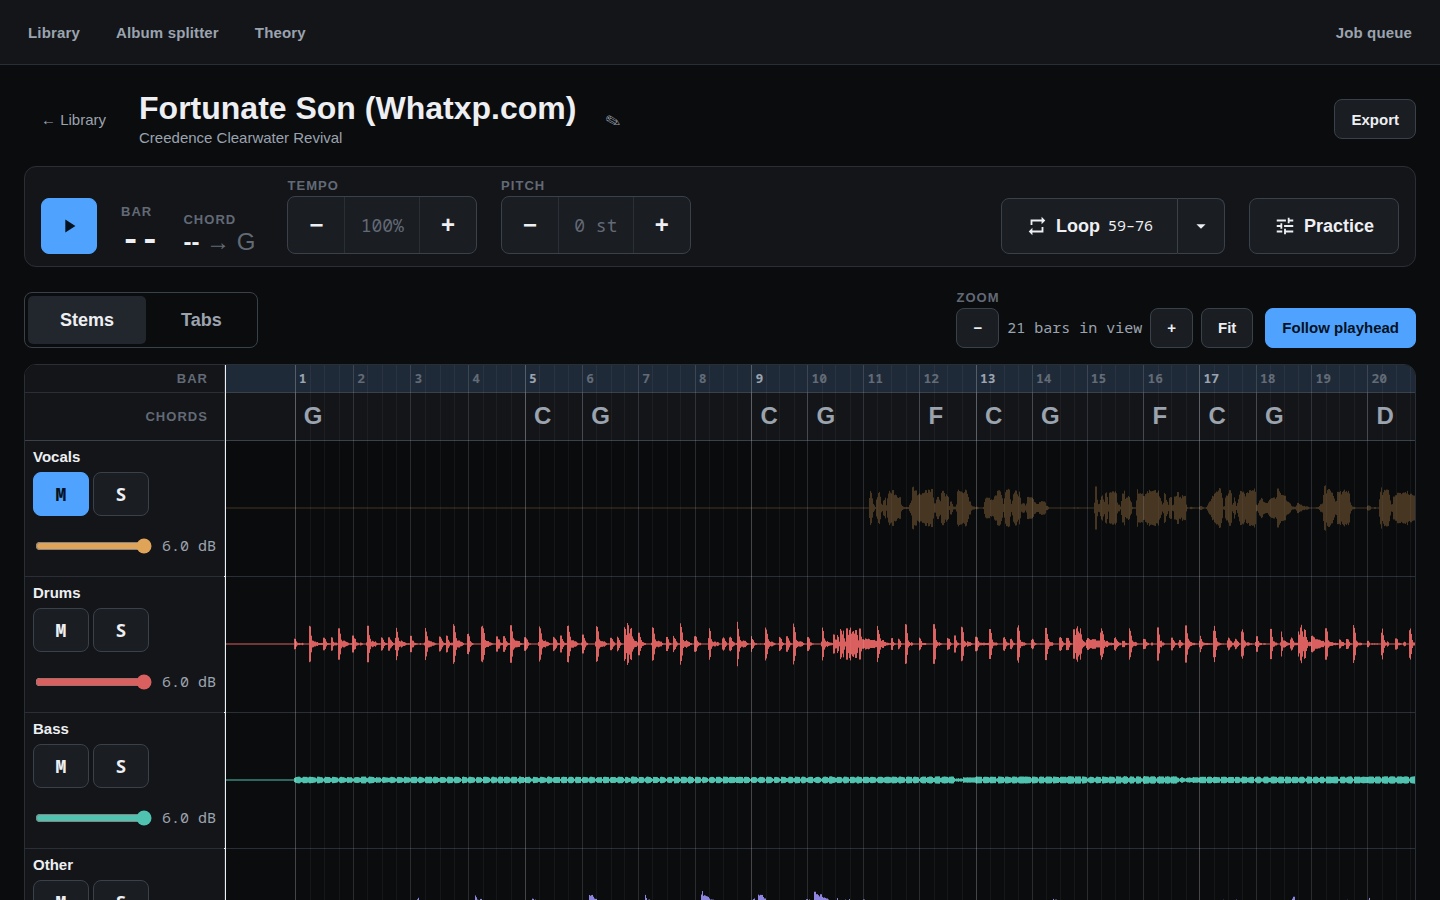
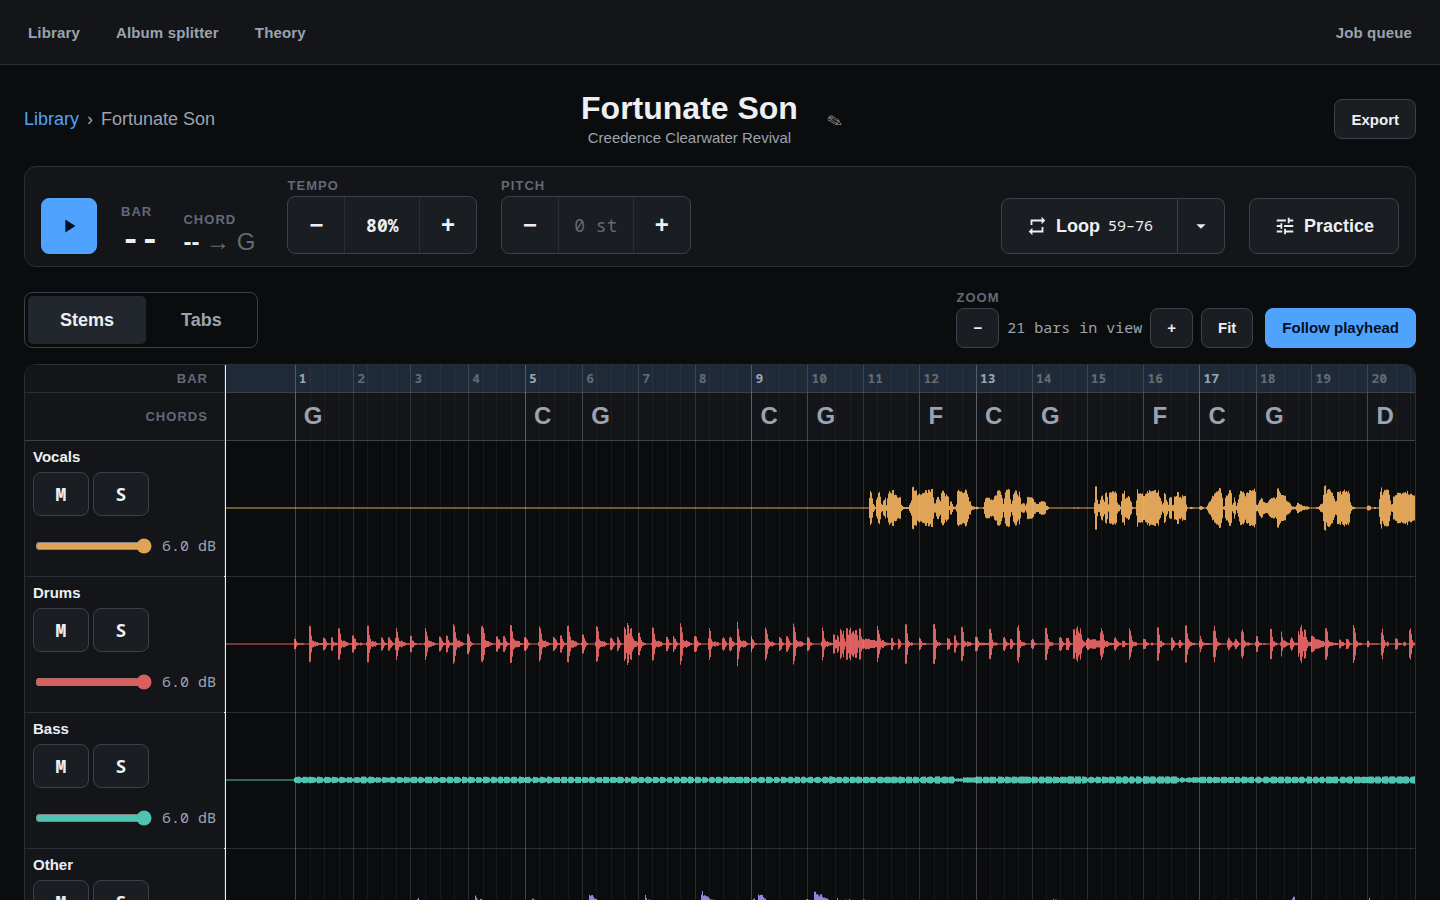
feat(ui): breadcrumbs replace back buttons; screen titles centred

diff --git a/frontend/src/screens/AlbumSplitter.tsx b/frontend/src/screens/AlbumSplitter.tsx
@@ -46,11 +46,11 @@ import { WaveformMarkers } from '../splitter/WaveformMarkers';
 import {
   Banner,
   Button,
-  ButtonLink,
   Chip,
   EmptyState,
   Loader,
   ProgressBar,
+  ScreenHeader,
   TextField,
   TextLink,
   type ChipTone,
@@ -458,15 +458,15 @@ function AlbumEditor({ albumId }: { albumId: string }) {
     // parse error in view.
     return (
       <section className={styles.screen}>
-        <h1>Album splitter</h1>
+        <ScreenHeader
+          crumbs={[{ label: 'Albums', to: '/splitter' }, { label: albumId }]}
+          title="Album splitter"
+        />
         <Banner
           tone="error"
           title="This album could not be read"
           trace={albumQuery.data?.unreadable}
         />
-        <ButtonLink variant="ghost" to="/splitter">
-          Back to albums
-        </ButtonLink>
       </section>
     );
   }
@@ -486,18 +486,11 @@ function AlbumEditor({ albumId }: { albumId: string }) {
 
   return (
     <section className={`${styles.screen} ${styles.wide}`}>
-      <header className={styles.head}>
-        <div>
-          <h1>Album splitter</h1>
-          <p className={styles.sub}>
-            {album.title}
-            {album.artist ? ` — ${album.artist}` : ''}
-          </p>
-        </div>
-        <ButtonLink variant="ghost" to="/splitter">
-          Back to albums
-        </ButtonLink>
-      </header>
+      <ScreenHeader
+        crumbs={[{ label: 'Albums', to: '/splitter' }, { label: album.title }]}
+        title="Album splitter"
+        subtitle={`${album.title}${album.artist ? ` — ${album.artist}` : ''}`}
+      />
 
       {/* ApiError's message already carries the server's own detail, so it is
           shown as it came rather than paraphrased into reassurance. */}

diff --git a/frontend/src/screens/Export.tsx b/frontend/src/screens/Export.tsx
@@ -14,7 +14,7 @@ import { exportUrl } from '../api/client';
 import { queryKeys, useExports, useJobs, useQueueExport, useSong } from '../api/queries';
 import { STEM_ORDER, type StemName } from '../engine/types';
 import { proposeExportName } from './exportName';
-import { Banner, Button, ButtonLink, Loader, ProgressBar, TextField, TextLink } from '../ui';
+import { Banner, Button, Loader, ProgressBar, ScreenHeader, TextField, TextLink } from '../ui';
 import styles from './Export.module.css';
 
 function formatBytes(bytes: number): string {
@@ -99,17 +99,15 @@ export function Export() {
 
   return (
     <section className={styles.screen}>
-      <header className={styles.head}>
-        <div>
-          <h1>Export</h1>
-          <p className={styles.sub}>
-            {song ? `${song.title}${song.artist ? ` — ${song.artist}` : ''}` : songId}
-          </p>
-        </div>
-        <ButtonLink variant="ghost" to={`/songs/${songId}`}>
-          Back to the song
-        </ButtonLink>
-      </header>
+      <ScreenHeader
+        crumbs={[
+          { label: 'Library', to: '/' },
+          { label: song?.title ?? songId ?? '', to: `/songs/${songId}` },
+          { label: 'Export' },
+        ]}
+        title="Export"
+        subtitle={song ? `${song.title}${song.artist ? ` — ${song.artist}` : ''}` : songId}
+      />
 
       {songQuery.data?.unreadable && (
         <Banner tone="error" title="This song could not be read" trace={songQuery.data.unreadable} />

diff --git a/frontend/src/screens/SongScreen.tsx b/frontend/src/screens/SongScreen.tsx
@@ -6,7 +6,7 @@
 import { useState } from 'react';
 import { NavLink, Outlet } from 'react-router-dom';
 
-import { ButtonLink, Loader } from '../ui';
+import { ButtonLink, Loader, ScreenHeader } from '../ui';
 import { useSongSession } from '../session/SongSession';
 import { TitleEditor } from '../songview/TitleEditor';
 import { Transport } from '../songview/Transport';
@@ -76,19 +76,17 @@ export function SongScreen() {
 
   return (
     <section className={styles.page}>
-      <header className={styles.header}>
-        <ButtonLink variant="ghost" to="/">
-          &larr; Library
-        </ButtonLink>
-        <TitleEditor
-          title={song?.title ?? fetchedSong?.title ?? songId}
-          artist={song?.artist ?? fetchedSong?.artist ?? ''}
-          onRename={session.onRename}
-        />
-        <ButtonLink className={styles.export} to={`/songs/${songId}/export`}>
-          Export
-        </ButtonLink>
-      </header>
+      <ScreenHeader
+        crumbs={[{ label: 'Library', to: '/' }, { label: song?.title ?? fetchedSong?.title ?? songId }]}
+        title={
+          <TitleEditor
+            title={song?.title ?? fetchedSong?.title ?? songId}
+            artist={song?.artist ?? fetchedSong?.artist ?? ''}
+            onRename={session.onRename}
+          />
+        }
+        actions={<ButtonLink to={`/songs/${songId}/export`}>Export</ButtonLink>}
+      />
 
       {engineError && (
         <p role="alert" className={styles.alert}>

diff --git a/frontend/src/ui/Breadcrumbs.tsx b/frontend/src/ui/Breadcrumbs.tsx
@@ -1,0 +1,32 @@
+import { Link } from 'react-router-dom';
+
+import styles from './Breadcrumbs.module.css';
+
+export interface Crumb {
+  label: string;
+  /** Ancestors link; the current page (the last crumb) has no `to`. */
+  to?: string;
+}
+
+/** The trail from the top of the app to the current screen. */
+export function Breadcrumbs({ crumbs }: { crumbs: Crumb[] }) {
+  return (
+    <nav aria-label="Breadcrumb" className={styles.nav}>
+      <ol className={styles.list}>
+        {crumbs.map((crumb, index) => (
+          <li key={`${index}-${crumb.label}`} className={styles.item}>
+            {crumb.to ? (
+              <Link className={styles.link} to={crumb.to}>
+                {crumb.label}
+              </Link>
+            ) : (
+              <span aria-current="page" className={styles.current}>
+                {crumb.label}
+              </span>
+            )}
+          </li>
+        ))}
+      </ol>
+    </nav>
+  );
+}

diff --git a/frontend/src/ui/Breadcrumbs.test.tsx b/frontend/src/ui/Breadcrumbs.test.tsx
@@ -1,0 +1,19 @@
+import { render, screen } from '@testing-library/react';
+import { MemoryRouter } from 'react-router-dom';
+import { expect, it } from 'vitest';
+
+import { Breadcrumbs } from './Breadcrumbs';
+
+it('links the ancestors and marks the last crumb as the current page', () => {
+  render(
+    <MemoryRouter>
+      <Breadcrumbs crumbs={[{ label: 'Library', to: '/' }, { label: 'Song', to: '/songs/a' }, { label: 'Export' }]} />
+    </MemoryRouter>,
+  );
+  const nav = screen.getByRole('navigation', { name: 'Breadcrumb' });
+  expect(nav).toBeInTheDocument();
+  expect(screen.getByRole('link', { name: 'Library' })).toHaveAttribute('href', '/');
+  expect(screen.getByRole('link', { name: 'Song' })).toHaveAttribute('href', '/songs/a');
+  expect(screen.queryByRole('link', { name: 'Export' })).toBeNull();
+  expect(screen.getByText('Export')).toHaveAttribute('aria-current', 'page');
+});

diff --git a/frontend/src/ui/ScreenHeader.tsx b/frontend/src/ui/ScreenHeader.tsx
@@ -1,0 +1,26 @@
+import type { ReactNode } from 'react';
+
+import { Breadcrumbs, type Crumb } from './Breadcrumbs';
+import styles from './ScreenHeader.module.css';
+
+export interface ScreenHeaderProps {
+  crumbs: Crumb[];
+  /** The screen's title: a string becomes the h1, a node (an editor) is placed as given. */
+  title: ReactNode;
+  subtitle?: string;
+  actions?: ReactNode;
+}
+
+/** Breadcrumbs left, the screen title centred, actions right. */
+export function ScreenHeader({ crumbs, title, subtitle, actions }: ScreenHeaderProps) {
+  return (
+    <header className={styles.head}>
+      <Breadcrumbs crumbs={crumbs} />
+      <div className={styles.title}>
+        {typeof title === 'string' ? <h1>{title}</h1> : title}
+        {subtitle && <p className={styles.sub}>{subtitle}</p>}
+      </div>
+      <div className={styles.actions}>{actions}</div>
+    </header>
+  );
+}

diff --git a/frontend/src/ui/Breadcrumbs.module.css b/frontend/src/ui/Breadcrumbs.module.css
@@ -1,0 +1,46 @@
+.nav {
+  min-width: 0;
+}
+
+.list {
+  display: flex;
+  flex-wrap: wrap;
+  align-items: center;
+  gap: var(--ds-2);
+  margin: 0;
+  padding: 0;
+  list-style: none;
+}
+
+.item {
+  display: inline-flex;
+  align-items: center;
+  gap: var(--ds-2);
+  min-width: 0;
+}
+
+.item + .item::before {
+  content: '\203A';
+  color: var(--ds-text-2);
+}
+
+.link {
+  color: var(--ds-accent);
+  text-decoration: underline;
+  text-decoration-color: transparent;
+  text-decoration-thickness: 1.5px;
+  text-underline-offset: 3px;
+  transition: text-decoration-color var(--ds-m-flip) var(--ds-ease);
+}
+
+.link:hover,
+.link:focus-visible {
+  text-decoration-color: currentColor;
+}
+
+.current {
+  color: var(--ds-text-2);
+  overflow: hidden;
+  text-overflow: ellipsis;
+  white-space: nowrap;
+}

diff --git a/frontend/src/ui/ScreenHeader.module.css b/frontend/src/ui/ScreenHeader.module.css
@@ -1,0 +1,38 @@
+/* Equal side columns keep the title on the page's centre line whatever the crumbs or
+   actions weigh. */
+.head {
+  display: grid;
+  grid-template-columns: minmax(0, 1fr) auto minmax(0, 1fr);
+  align-items: center;
+  gap: var(--ds-4);
+}
+
+.title {
+  text-align: center;
+  min-width: 0;
+}
+
+.title h1 {
+  margin: 0;
+}
+
+.sub {
+  margin: 0;
+  color: var(--ds-text-2);
+}
+
+.actions {
+  display: flex;
+  justify-content: flex-end;
+}
+
+@media (max-width: 720px) {
+  .head {
+    grid-template-columns: minmax(0, 1fr) auto;
+  }
+
+  .title {
+    grid-column: 1 / -1;
+    grid-row: 2;
+  }
+}

diff --git a/frontend/src/ui/index.ts b/frontend/src/ui/index.ts
@@ -27,3 +27,7 @@ export { Stepper } from './Stepper';
 export type { StepperProps, StepperTier } from './Stepper';
 export { Popover } from './Popover';
 export type { PopoverProps } from './Popover';
+export { Breadcrumbs } from './Breadcrumbs';
+export type { Crumb } from './Breadcrumbs';
+export { ScreenHeader } from './ScreenHeader';
+export type { ScreenHeaderProps } from './ScreenHeader';

diff --git a/frontend/src/screens/AlbumSplitter.module.css b/frontend/src/screens/AlbumSplitter.module.css
@@ -5,18 +5,6 @@
   max-width: 900px;
 }
 
-.head {
-  display: flex;
-  align-items: flex-start;
-  justify-content: space-between;
-  gap: var(--ds-4);
-}
-
-.sub {
-  margin: 0;
-  color: var(--ds-text-2);
-}
-
 /* Panel supplies the surface, border, radius and padding. */
 .row {
   display: flex;

diff --git a/frontend/src/screens/SongScreen.module.css b/frontend/src/screens/SongScreen.module.css
@@ -11,17 +11,6 @@
   min-height: calc(100dvh - var(--ds-9));
 }
 
-.header {
-  display: flex;
-  align-items: center;
-  gap: var(--ds-4);
-}
-
-
-.export {
-  margin-left: auto;
-}
-
 /* Stays pinned at the top while the page scrolls. Above the axis's sticky head
    column (z 2). */
 .transport {

diff --git a/frontend/src/screens/Export.module.css b/frontend/src/screens/Export.module.css
@@ -5,18 +5,6 @@
   max-width: 640px;
 }
 
-.head {
-  display: flex;
-  align-items: flex-start;
-  justify-content: space-between;
-  gap: var(--ds-4);
-}
-
-.sub {
-  margin: 0;
-  color: var(--ds-text-2);
-}
-
 .group {
   margin: 0;
   display: flex;
